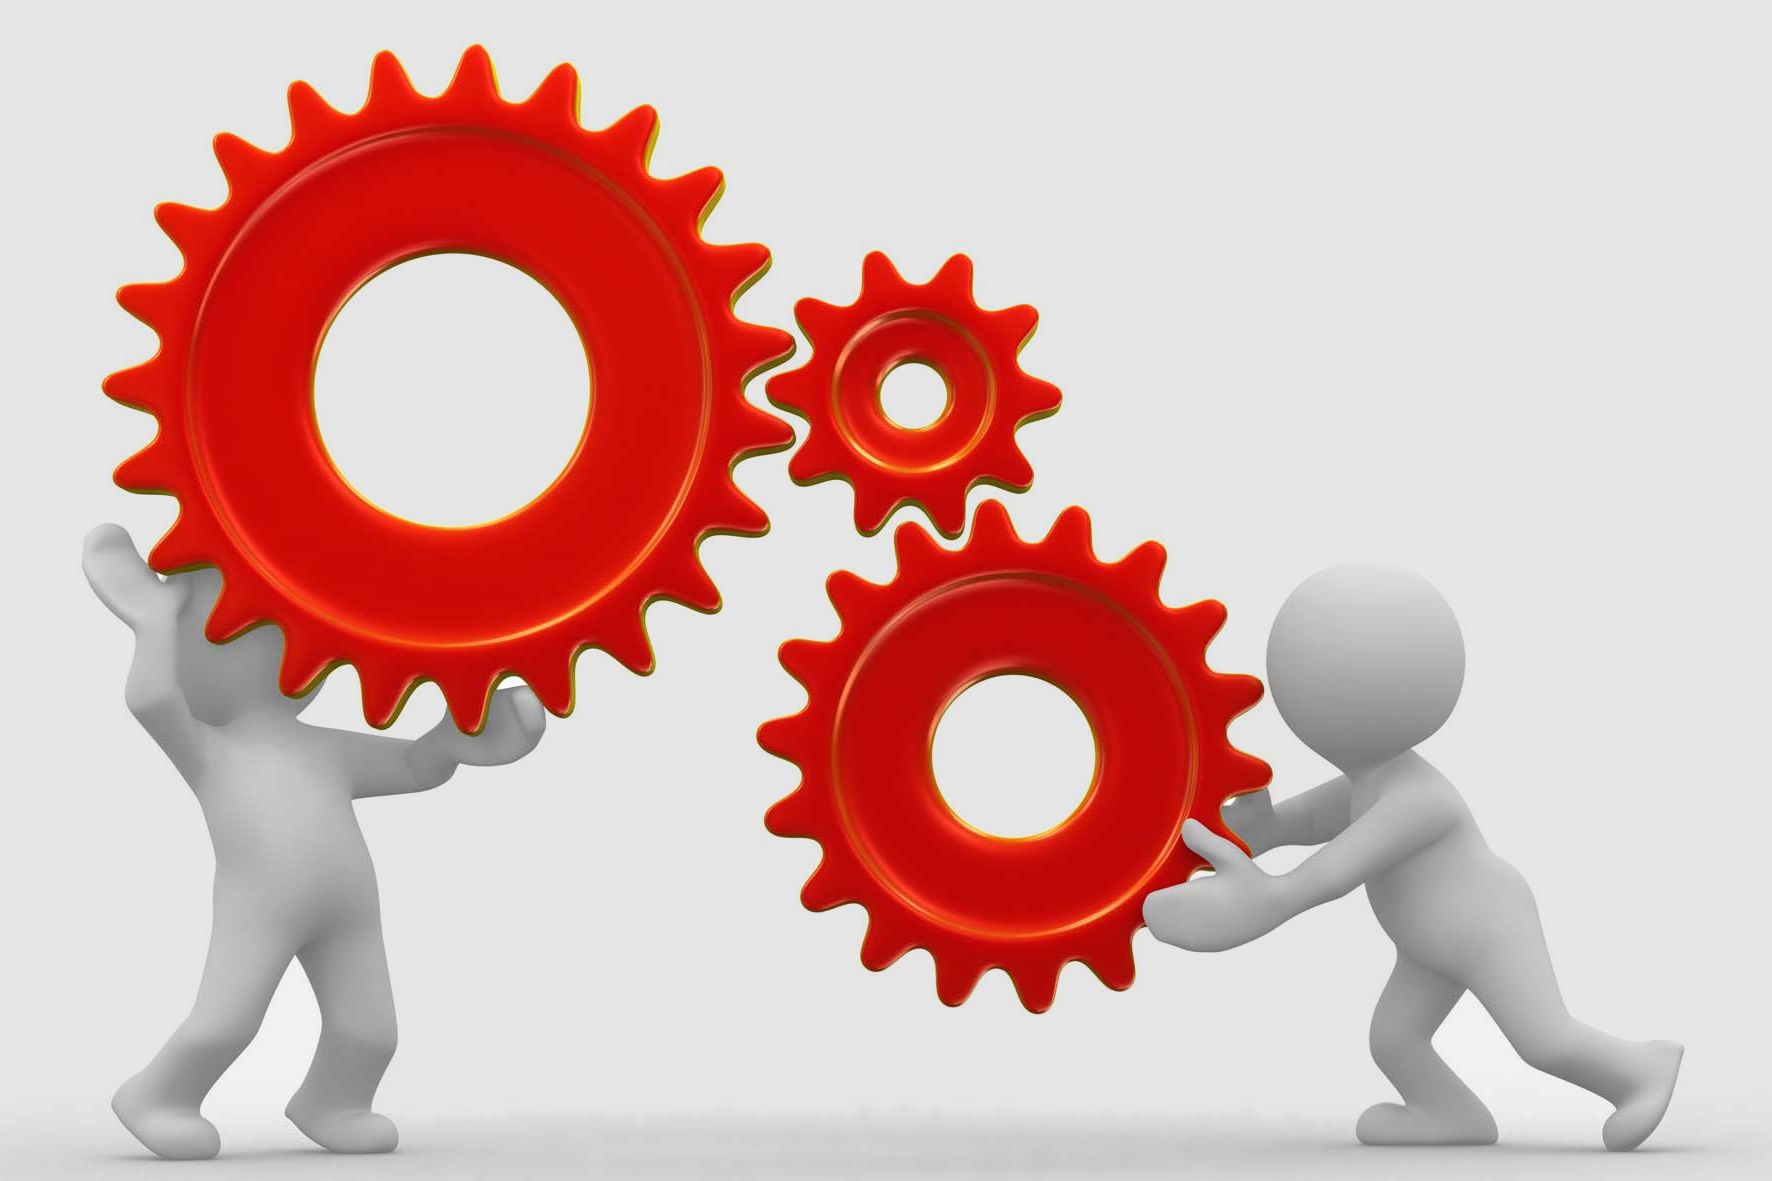
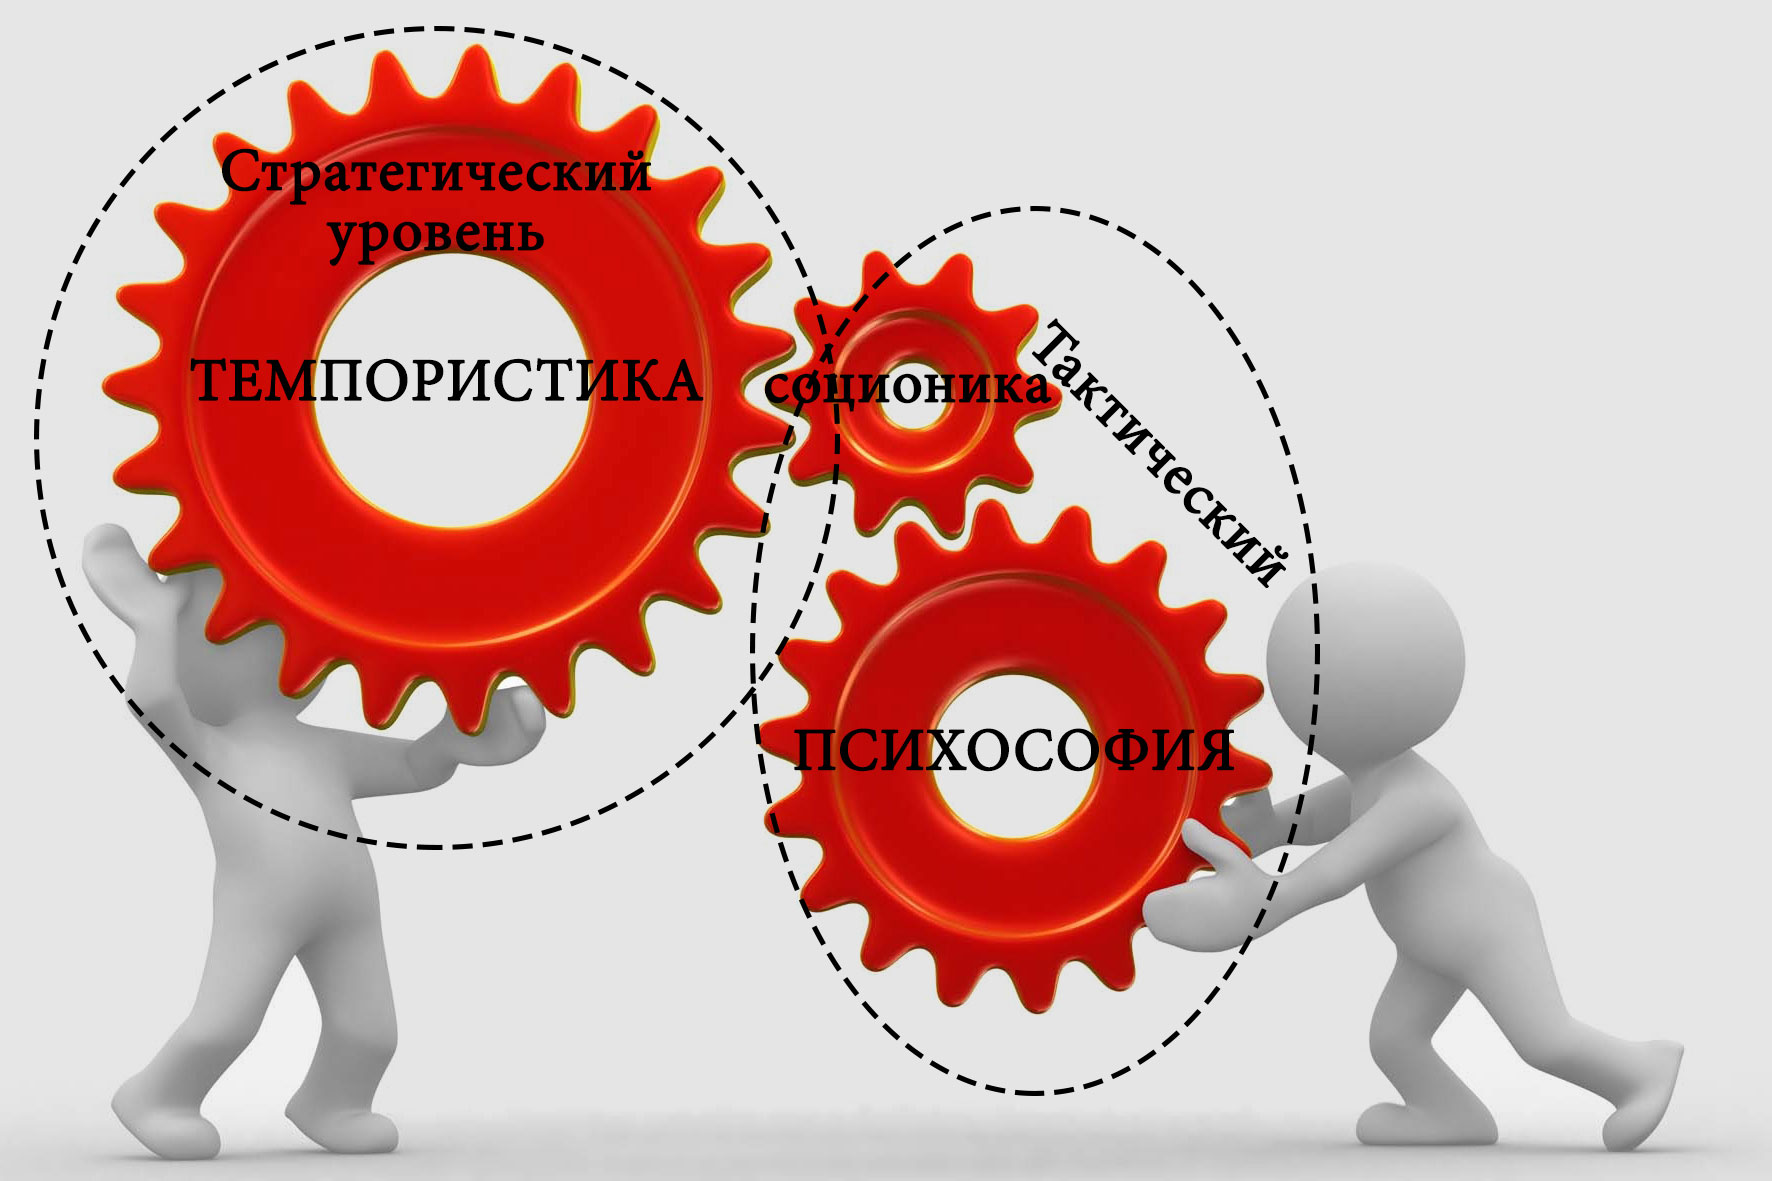
Более наглядные картинки

diff --git a/parts/short.html b/parts/short.html
@@ -1,12 +1,12 @@
 <h2 lng="lng_intro_title"></h2>
 <img class="puzzle " src="images/puzzle.jpg " alt="Здесь должна была быть картинка с пазлом:) ">
-<p lng="lng_description_1">Представте взаимодейсвие людей на примере двух абстрактных людей. Это влиние, взаимодействие условно можно разделить на три уровня. Стартегический, Тактический (Активный и пассивный) уровни взаимодейсвия, влияния друг на друга. Удалось описать эти уровни
+<p lng="lng_description_1">Представте взаимодейсвие людей на примере двух абстрактных людей. Это влиние, взаимодействие условно можно разделить на два уровня. Стартегический, Тактический (Активный и пассивный) уровни взаимодейсвия, влияния друг на друга. Удалось описать эти уровни
     взаиомдейтсвия Темпористикой, Психософией и Соционикой. </p>
 <img class="puzzle " src="/images/humanInteraction.jpg" alt="" srcset="">
 <p>Если вкратце взаимодейсвией в темпористике построенна на идукции и дедукции и аналогичных процессов при воспртиятии времени (Настоящего, Прошлого, Будущего, Вечности). Да-да мы можно сказать идуктивно и дедуктиво воспрнимаем настоящее, кому-то доступна
     только дедукция, а кому-то только дедукция, а кто-то просто берет готовую дедукцию восприятия времени.</p>
 <img class="puzzle " src="/images/AristotelSherlock.jpg">
-<p>В психософии на ситезе и анализе волевых качетс, эмоций, материальных потребностей и привычном синтезе и анализе убеждений, логике.</p>
+<p>В психософии на ситезе и анализе волевых качеств, эмоций, материальных потребностей и привычном синтезе и анализе убеждений, логике.</p>
 <p lng="lng_description_1_example"></p>
 <p lng="lng_description_1_condition"></p>
 <h2 lng="lng_what_do_you_need"></h2>
